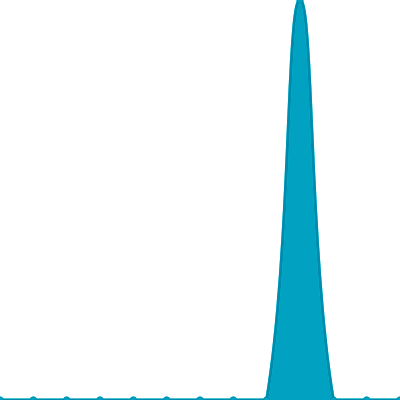
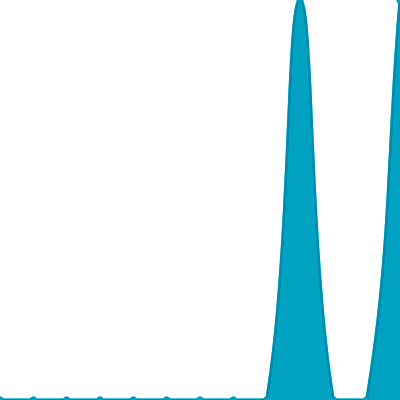
Update views

Changed region(s): [[0.9, 0.0, 1.0, 1.0]]

diff --git a/readme/631992812/year.md b/readme/631992812/year.md
@@ -23,10 +23,10 @@
 			<code>2024/2/1</code>
 		</td>
 		<td>
-			<code>0</code>
+			<code>1</code>
 		</td>
 		<td>
-			<code>0</code>
+			<code>1</code>
 		</td>
 	</tr>
 	<tr>
@@ -164,7 +164,7 @@
 </table>
 
 </details>
-<small><i>Last updated on 2024/2/13 12:33 AM UTC</i></small>
+<small><i>Last updated on 2024/2/13 6:10 AM UTC</i></small>
 
 ## ✂Copy and 📋 Paste
 ### SVG Badge

diff --git a/README.md b/README.md
@@ -69,7 +69,7 @@ The project created and maintained by [gayanvoice](https://github.com/gayanvoice
 	</tr>
 </table>
 
-<small><i>Last updated on 2024/2/13 12:33 AM UTC</i></small>
+<small><i>Last updated on 2024/2/13 6:10 AM UTC</i></small>
 
 ## ✂Copy and 📋 Paste
 ### Total Views Badge

diff --git a/readme/655957517/year.md b/readme/655957517/year.md
@@ -164,7 +164,7 @@
 </table>
 
 </details>
-<small><i>Last updated on 2024/2/13 12:33 AM UTC</i></small>
+<small><i>Last updated on 2024/2/13 6:10 AM UTC</i></small>
 
 ## ✂Copy and 📋 Paste
 ### SVG Badge

diff --git a/readme/714185209/year.md b/readme/714185209/year.md
@@ -164,7 +164,7 @@
 </table>
 
 </details>
-<small><i>Last updated on 2024/2/13 12:33 AM UTC</i></small>
+<small><i>Last updated on 2024/2/13 6:10 AM UTC</i></small>
 
 ## ✂Copy and 📋 Paste
 ### SVG Badge
